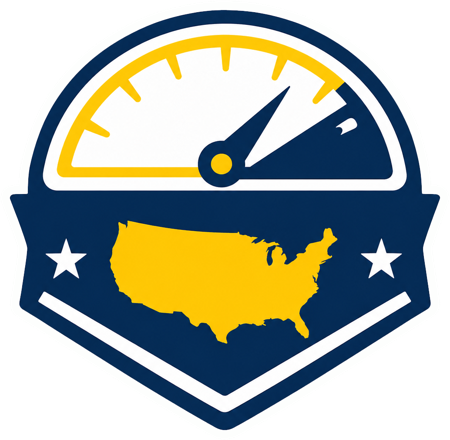
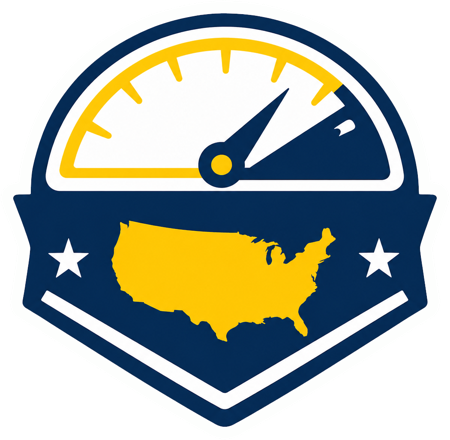
drayow.com: updated gauge badge mark (v5)

diff --git a/nextjs-site/src/components/Nav.tsx b/nextjs-site/src/components/Nav.tsx
@@ -9,7 +9,7 @@ export default function Nav() {
     <header className="sticky top-0 z-40 border-b" style={{ background: "#0B2D5C", borderColor: "rgba(255,255,255,0.18)" }}>
       <div className="max-w-[1400px] mx-auto px-6 h-16 flex items-center justify-between">
         <Link href="/" className="flex items-center gap-2.5">
-          <img src={asset("/drayow-mark.png?v=4")} alt="" className="h-9 md:h-11 w-auto" />
+          <img src={asset("/drayow-mark.png?v=5")} alt="" className="h-9 md:h-11 w-auto" />
           <span className="display font-extrabold text-[20px] md:text-[24px] tracking-tight leading-none text-white">Dray <span className="text-[#ffc400]">Overweight</span></span>
         </Link>
         <nav className="hidden lg:flex items-center gap-5 text-[13px] font-medium text-white/85">

diff --git a/nextjs-site/src/components/Footer.tsx b/nextjs-site/src/components/Footer.tsx
@@ -43,7 +43,7 @@ export default function Footer() {
           {/* brand + contact */}
           <div>
             <span className="flex items-center gap-2.5">
-              <img src={asset("/drayow-mark.png?v=4")} alt="" className="h-11 w-auto" />
+              <img src={asset("/drayow-mark.png?v=5")} alt="" className="h-11 w-auto" />
               <span className="display font-extrabold text-[22px] tracking-tight leading-none text-white">Dray <span className="text-[#ffc400]">Overweight</span></span>
             </span>
             <p className="mt-4 max-w-xs text-white/60 text-[13.5px] leading-relaxed">
